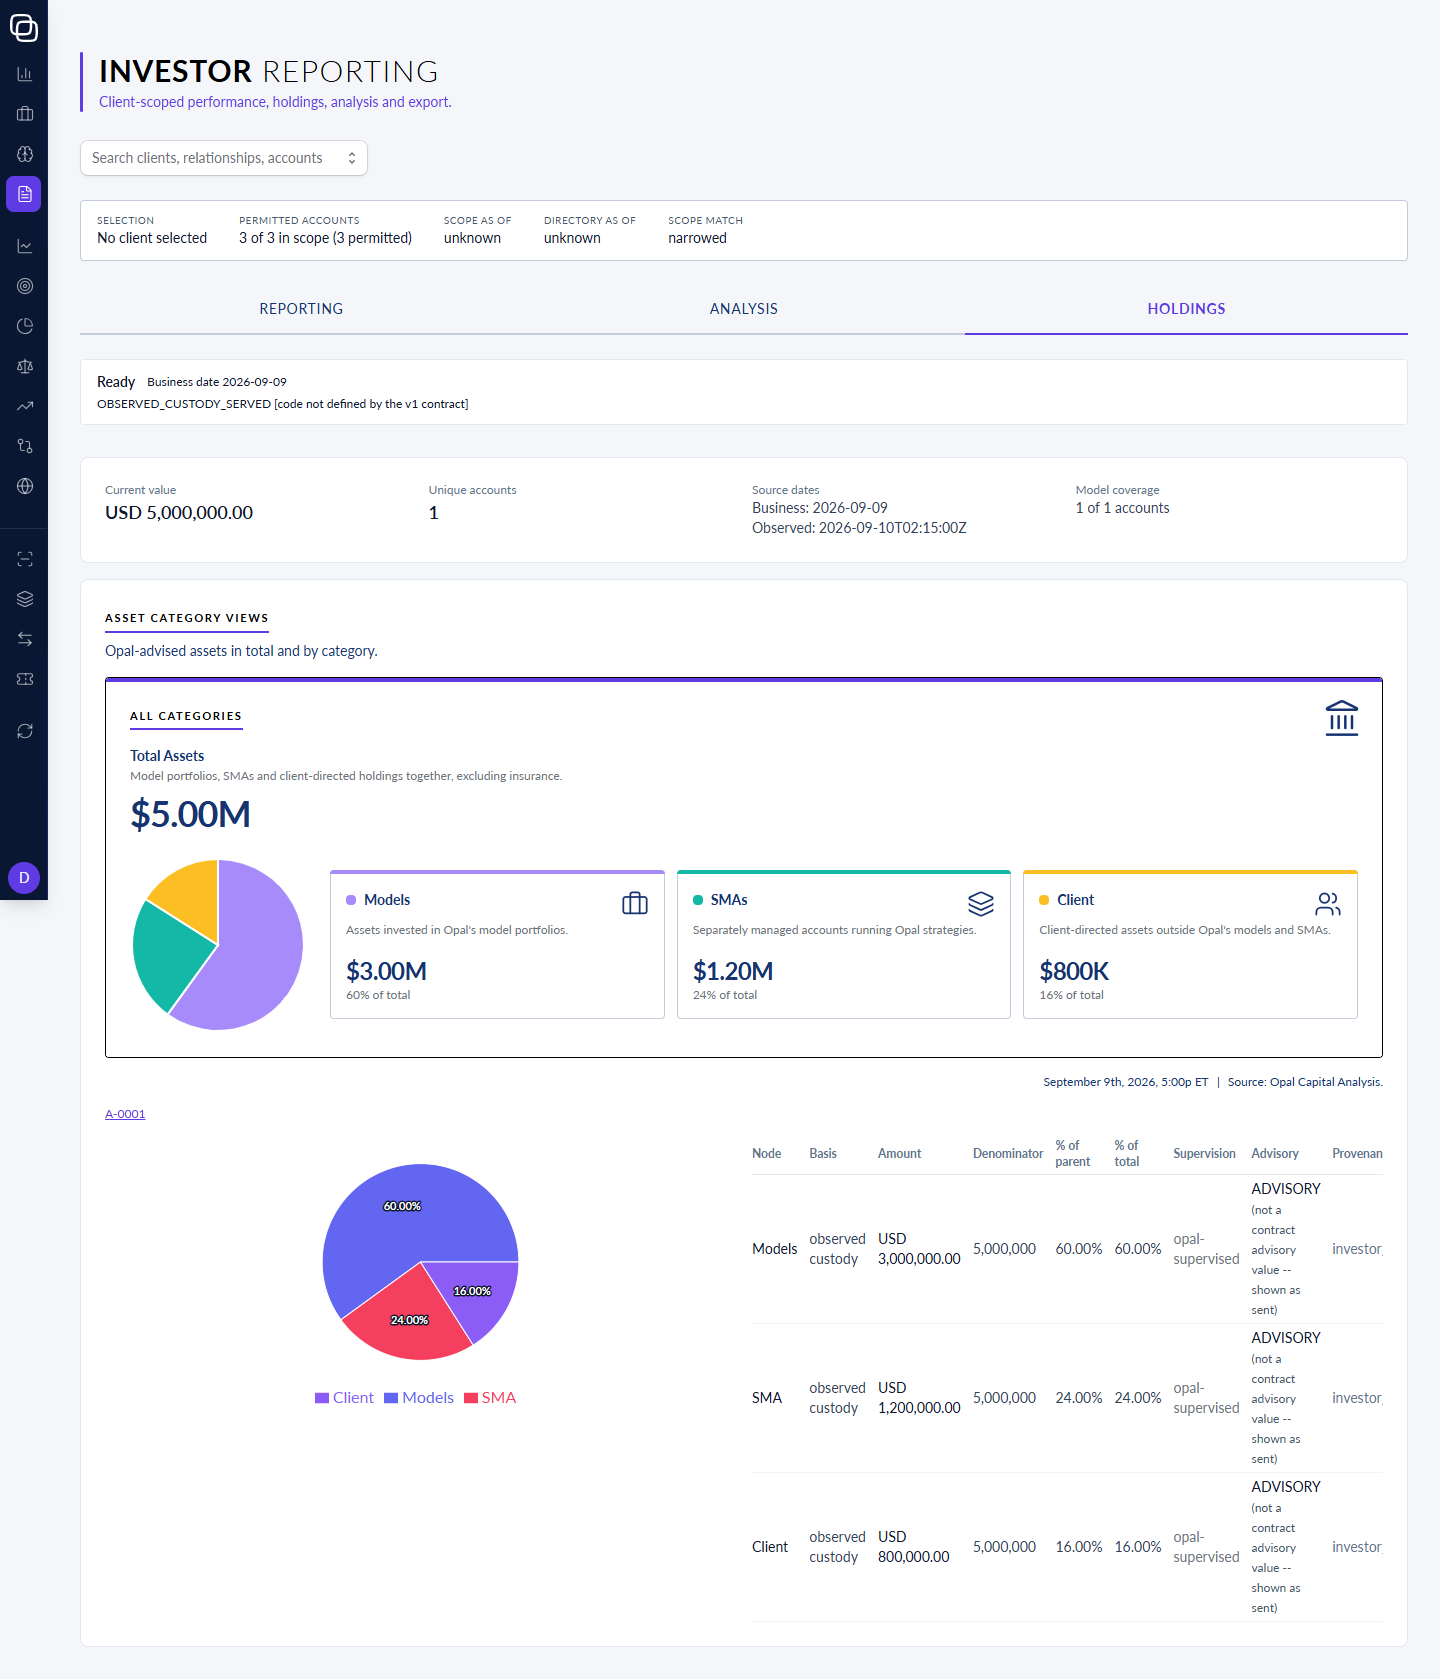
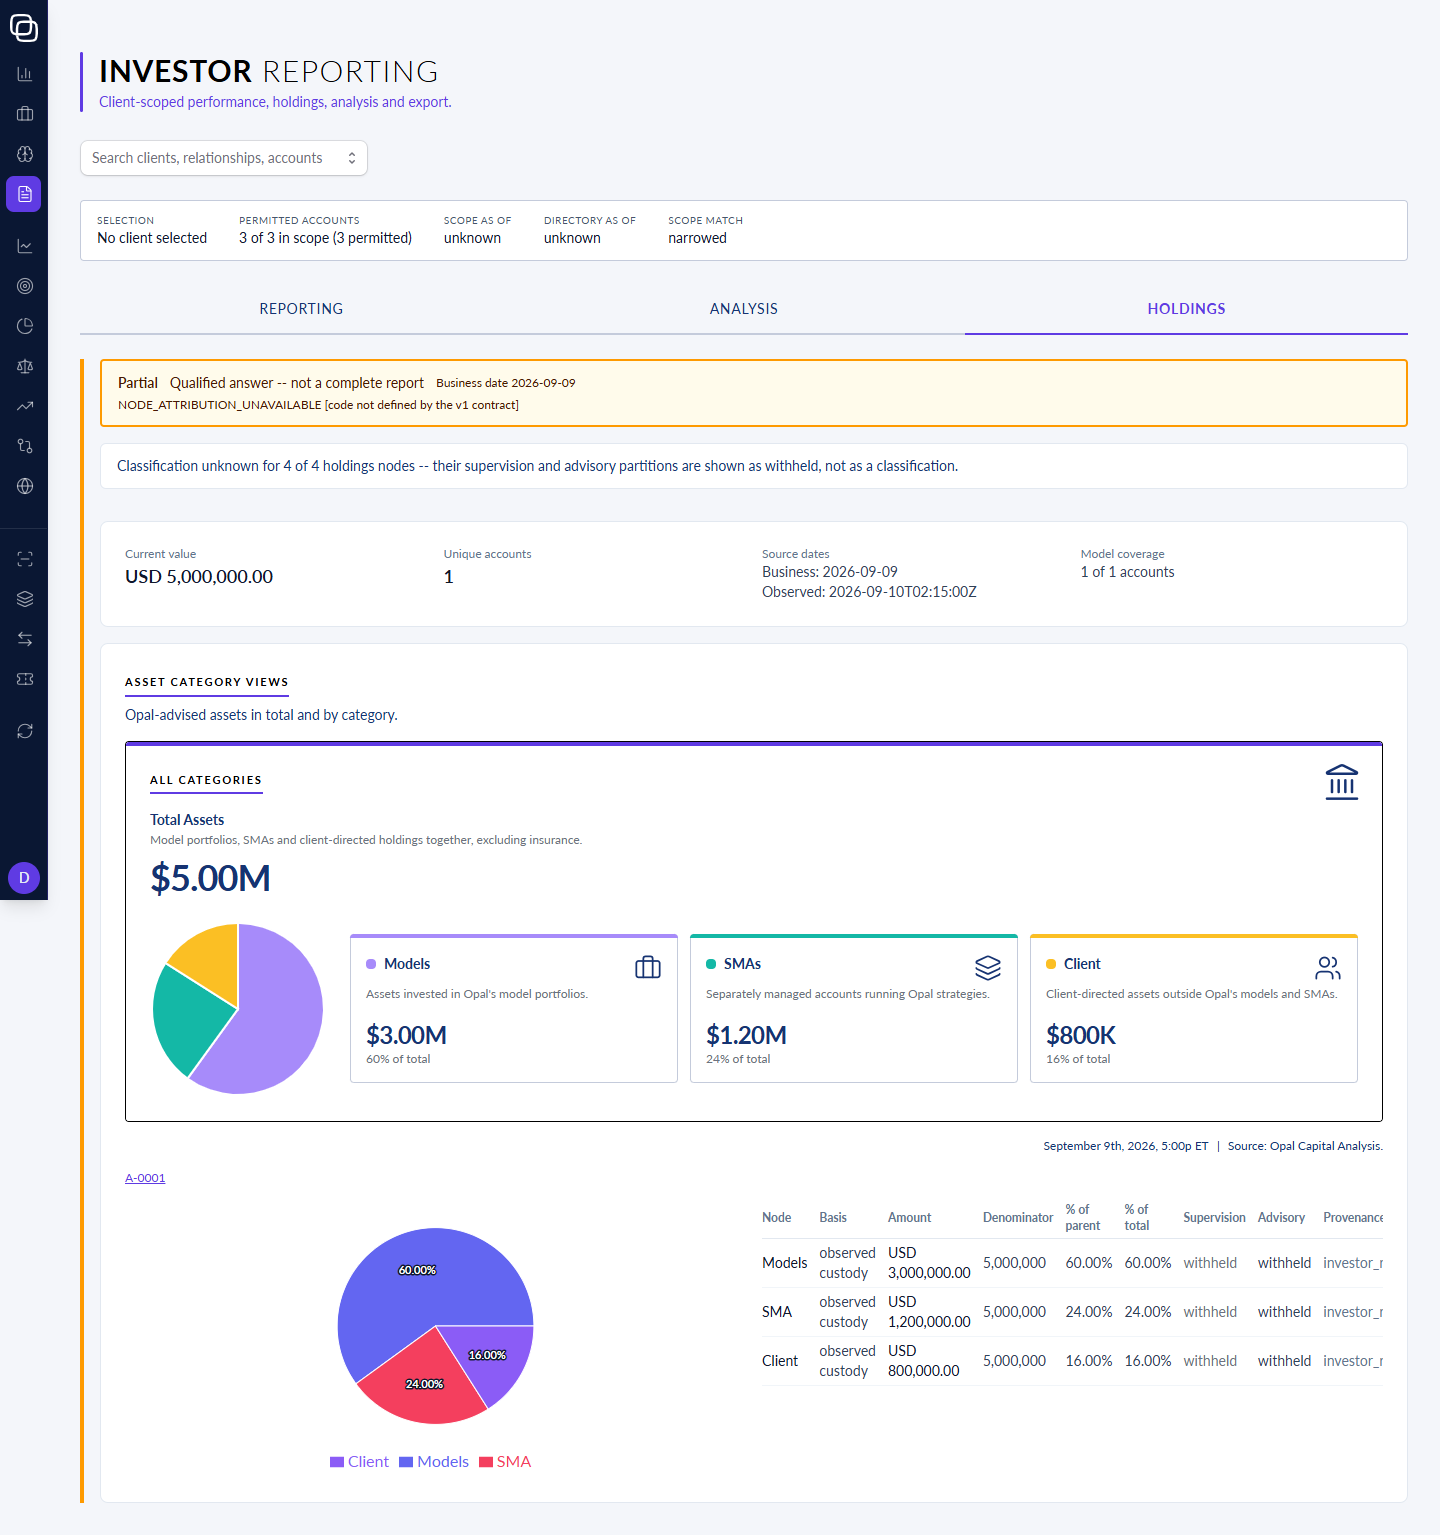
complete(IRPT_FNTEND.TO-FE-s-79, 0.9.0_WK_IRPT_FNTEND~29): F79-AC3 re-graded PASS on the issuer's amended fixture (fe-s-18-holdings-missing-attribution.json, commits 55b6b69d83 + 4df5d98905 cherry-picked onto this branch); re-ran the exact amended invocation live -- ASSERT-GROUND: 1 of 1 met (was UN

diff --git a/org/missions/D9/IRPT/IRPT_FNTEND/deliverables/0.9.0_WK_IRPT_FNTEND~29/oklch-text-roles-measured-against-actual-grounds.result.md b/org/missions/D9/IRPT/IRPT_FNTEND/deliverables/0.9.0_WK_IRPT_FNTEND~29/oklch-text-roles-measured-against-actual-grounds.result.md
@@ -2,10 +2,12 @@
 
 **FIXTURE-FED DISCLOSURE.** Every capture below is fed by `--fixtures` JSON served through the
 smoke harness's stub transport (`scripts/ui-smoke.mjs`), never a live backend: F79-AC2 uses
-`fe-s-18-frozen.json`; F79-AC3 and F79-AC4 use `fe-s-18-holdings-observed.json` (as the task
-order names); one diagnostic-only run (not an acceptance criterion, reported for context) uses
-the sibling fixture `fe-s-18-holdings-missing-attribution.json`, already present in the repo and
-outside this cell's `<paths>` grant (read-only reference). No live API, no network egress.
+`fe-s-18-frozen.json`; F79-AC4 uses `fe-s-18-holdings-observed.json` (as the task order names).
+F79-AC3 originally named `fe-s-18-holdings-observed.json` too, but the issuing COO amended the
+task order (`7310707142`, `353cb80d21`) to point F79-AC3 at the sibling fixture
+`fe-s-18-holdings-missing-attribution.json` after independently confirming the original fixture
+can never mount the selector (see F79-AC3 below); this result reflects the amended criterion. No
+live API, no network egress.
 
 ## The fix
 
@@ -36,22 +38,28 @@ data-family component).
 `EXPECT-GROUND[[data-slot="requests-unavailable"]]: PASS rgb(255, 255, 255)` /
 `ASSERT-GROUND: 1 of 1 met`. Capture: `f79_analysis.png`. **PASS.**
 
-**F79-AC3** -- `HoldingsTab.tsx:99`'s ground, `fe-s-18-holdings-observed.json`, click Holdings:
+**F79-AC3** -- ORIGINAL RUN (named fixture `fe-s-18-holdings-observed.json`, click Holdings):
 `EXPECT-GROUND[[data-slot="holdings-qualification"]]: UNMEASURABLE (selector matched nothing)` /
-`ASSERT-GROUND: 0 of 1 met`. **REFUSED -- order defect, not a code or instrument defect.**
+`ASSERT-GROUND: 0 of 1 met`. **REFUSED as an order defect, not a code or instrument defect** --
 `HoldingsTab.tsx`'s own `HoldingsQualification` only mounts when
-`gap.unknownNodes > 0 || showsTargetWeights(snapshot)` -- every node in this named fixture is
+`gap.unknownNodes > 0 || showsTargetWeights(snapshot)`, and every node in that fixture is
 `authoritative: true` on basis `OBSERVED`, so the panel legitimately never renders for this data
 (confirmed by direct PNG read, `f79_holdings.png`: a plain READY holdings view, no qualification
-banner). Diagnostic run (same selector/flags, fixture swapped to the sibling
-`fe-s-18-holdings-missing-attribution.json`, which DOES carry a classification gap) reads
-`EXPECT-GROUND[[data-slot="holdings-qualification"]]: PASS rgb(255, 255, 255)` /
-`ASSERT-GROUND: 1 of 1 met`, and a further diagnostic `--expect-style` color check against that
-same fixture reads `EXPECT-STYLE[...::color]: PASS rgb(22, 51, 114)` -- the fix itself is
-independently confirmed correct and measurable; the named fixture in F79-AC3 is simply the wrong
-one to exercise the `holdings-qualification` selector. Filed as row `IRPT_FNTEND-W29-S1`
-(OBSERVATION, INERT) rather than substituted, per BOUNDS ("REFUSE any criterion you cannot
-satisfy as written ... do not weaken a criterion").
+banner). Filed as row `IRPT_FNTEND-W29-S1` (OBSERVATION, INERT) rather than substituted, per
+BOUNDS ("REFUSE any criterion you cannot satisfy as written ... do not weaken a criterion").
+
+**AMENDMENT (`2.0.0_SA_COO~F`, `7310707142` + `353cb80d21`).** The issuing COO independently
+confirmed the diagnosis above (read `classificationGapOf`/`showsTargetWeights` in `slices.ts`
+directly against the fixture's raw JSON, then re-ran the exact invocation live) and swapped
+F79-AC3's fixture to the sibling `fe-s-18-holdings-missing-attribution.json` (whose nodes carry
+no `classification` block, which the app treats as non-authoritative -- that fixture's whole
+documented purpose). The fix itself (`HoldingsTab.tsx:99`) was confirmed correct throughout;
+only the criterion's fixture reference was wrong.
+
+**RE-RUN (this session, amended fixture `fe-s-18-holdings-missing-attribution.json`, click
+Holdings):** `EXPECT-GROUND[[data-slot="holdings-qualification"]]: PASS rgb(255, 255, 255)` /
+`ASSERT-GROUND: 1 of 1 met`. Capture: `f79_holdings.png` (re-saved over the original capture at
+the same path, now showing the qualification banner rendered on its white ground). **PASS.**
 
 **F79-AC4** -- `SliceTable.tsx:143`'s ground, `fe-s-18-holdings-observed.json`, click Holdings:
 `EXPECT-GROUND[[data-slot="slice-supervision"]]: PASS rgb(255, 255, 255)` /
@@ -87,10 +95,11 @@ fixture, since the observed fixture never mounts the element) -> `PASS rgb(22, 5
 
 ## Status
 
-`<status>` NOT flipped to `complete`: F79-AC3 is a genuine FAIL (order defect), so per the
-worker-face proof-of-spec law a FAIL row leaves the order open. This is my final report on this
-task order pending the issuer's amendment of F79-AC3's named fixture.
+`<status>` flipped to `complete`: all 6 of 6 criteria now stand PASS-by-output or RECORDED
+(judgment), following the issuer's amendment of F79-AC3's named fixture and this session's
+re-run confirming `ASSERT-GROUND: 1 of 1 met` on the amended fixture.
 
 ## Surprises filed
 
-`IRPT_FNTEND-W29-S1` (OBSERVATION, INERT) -- F79-AC3's fixture mismatch, detailed above.
+`IRPT_FNTEND-W29-S1` (OBSERVATION, INERT) -- F79-AC3's original fixture mismatch, detailed
+above; resolved by the issuer's amendment (`7310707142`, `353cb80d21`).

diff --git a/org/missions/D9/IRPT/IRPT_FNTEND/task-orders/IRPT_FNTEND.TO-FE-s-79.oklch-text-roles-measured-against-actual-grounds.md b/org/missions/D9/IRPT/IRPT_FNTEND/task-orders/IRPT_FNTEND.TO-FE-s-79.oklch-text-roles-measured-against-actual-grounds.md
@@ -5,7 +5,7 @@
 <issued_to>0.9.0_WK_IRPT_FNTEND~29</issued_to>
 <issued_by>2.0.0_SA_COO~F</issued_by>
 <issued_date>2026-09-22</issued_date>
-<status>pending</status>
+<status>complete</status>
 
 **Directive:** D9 | **Fabric:** laptop | **PRD:** `../prd/IRPT_FNTEND_PRD.md` v0.9 @5fd2dc9ab5 | **Decomp cell:** `FE-s-79` (round 12, v0.12) | **outcome_ref:** FWD-12 | **depends_on:** FE-s-74 | **slot:** ~6 | **rows:** W22-S1 | **base:** workspace = the round-12 issuance commit on CLOUD (your worktree branches from it), portal DEV `5c8a9ba9` plus FE-s-74's hardened instrument once drained
 
